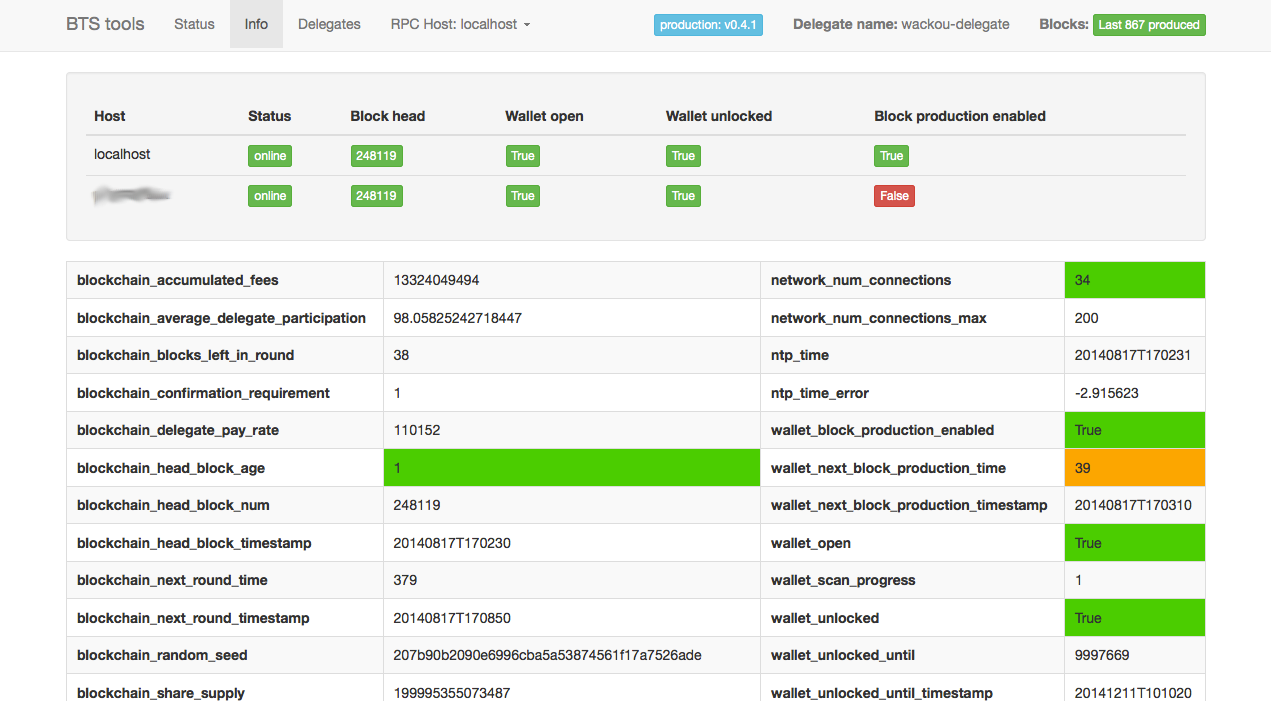
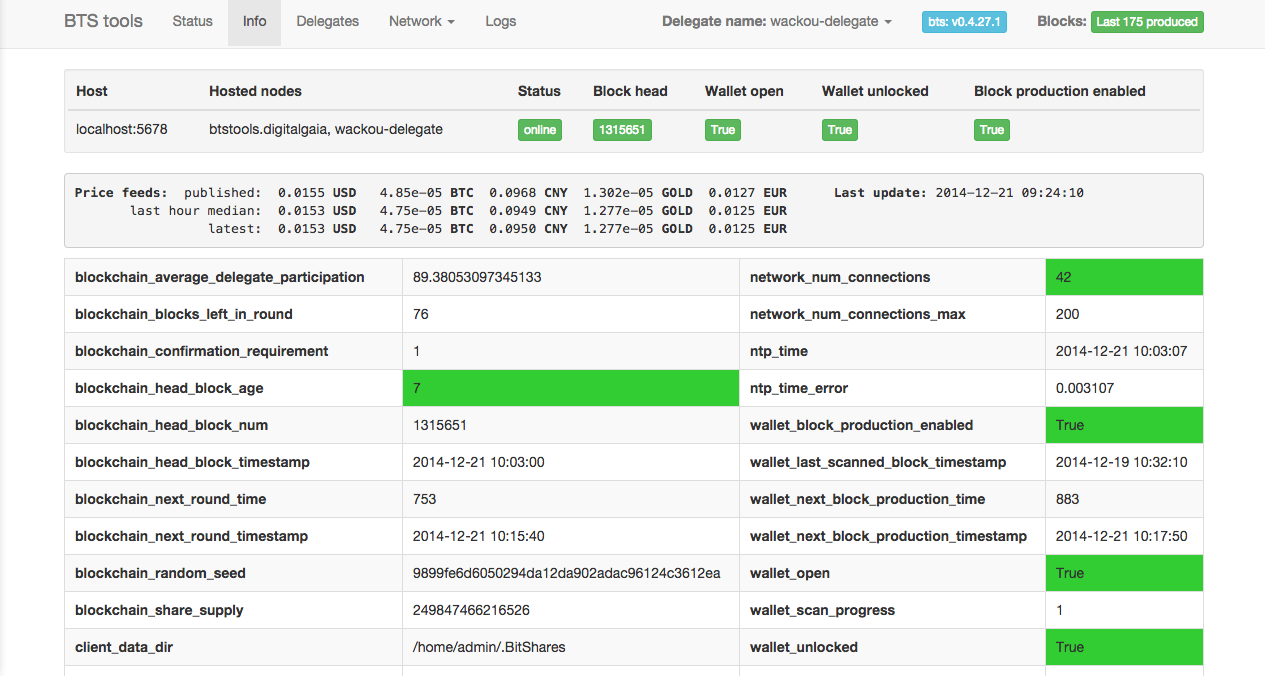
Updated a few things in readme

diff --git a/README.rst b/README.rst
@@ -39,8 +39,8 @@ just run the ``bts`` script with the command you want to execute:
       $ bts run
       $ bts run debug  # run the client inside gdb
 
-      $ bts build dns v0.0.4  # build a specific version
-      $ bts run seed-dns      # run environments are defined in the config.yaml file
+      $ bts build pts v2.0.1  # build a specific version
+      $ bts run seed-test     # run environments are defined in the config.yaml file
 
       $ bts build_gui
       $ bts run_gui
@@ -49,7 +49,7 @@ just run the ``bts`` script with the command you want to execute:
     positional arguments:
       {clean_homedir,clean,build,build_gui,run,run_gui,list}
                             the command to run
-      environment           the build/run environment (bts, dns, ...)
+      environment           the build/run environment (bts, pts, ...)
       hash                  the hash or tag of the desired commit
 
     optional arguments:
@@ -85,10 +85,16 @@ Monitoring the status of your running bts client binary
    :width: 800
    :alt: Status screenshot
 
-Monitoring multiple instances at the same time, to have an overview
-while running backup nodes and re-compiling your main node.
+You can host multiple delegates accounts in the same wallet, and check feed info
 
 .. figure:: https://github.com/wackou/bts_tools/raw/master/bts_tools_screenshot2.png
+   :width: 800
+   :alt: Info screenshot
+
+Monitoring multiple instances (ie: running on different hosts) at the same time,
+    to have an overview while running backup nodes and re-compiling your main node.
+
+.. figure:: https://github.com/wackou/bts_tools/raw/master/bts_tools_screenshot3.png
    :width: 800
    :alt: Info screenshot
 

diff --git a/README.md b/README.md
@@ -35,8 +35,8 @@ just run the ``bts`` script with the command you want to execute:
       $ bts run
       $ bts run debug  # run the client inside gdb
 
-      $ bts build dns v0.0.4  # build a specific version
-      $ bts run seed-dns      # run environments are defined in the config.yaml file
+      $ bts build pts v2.0.1  # build a specific version
+      $ bts run seed-test     # run environments are defined in the config.yaml file
     
       $ bts build_gui
       $ bts run_gui
@@ -45,7 +45,7 @@ just run the ``bts`` script with the command you want to execute:
     positional arguments:
       {clean_homedir,clean,build,build_gui,run,run_gui,list}
                             the command to run
-      environment           the build/run environment (bts, dns, ...)
+      environment           the build/run environment (bts, pts, ...)
       hash                  the hash or tag of the desired commit
     
     optional arguments:
@@ -76,10 +76,14 @@ Monitoring the status of your running bts client binary
 
 ![Status screenshot](bts_tools_screenshot.png)
 
-Monitoring multiple instances at the same time, to have an overview while
-running backup nodes and re-compiling your main node.
+You can host multiple delegates accounts in the same wallet, and check feed info
 
 ![Info screenshot](bts_tools_screenshot2.png)
+
+Monitoring multiple instances (ie: running on different hosts) at the same time,
+to have an overview while running backup nodes and re-compiling your main node.
+
+![Info screenshot](bts_tools_screenshot3.png)
 
 
 Things to know (best practices and "issues") READ IT !!!
